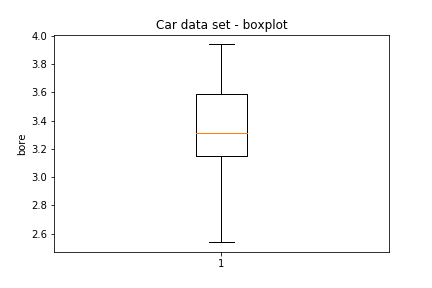
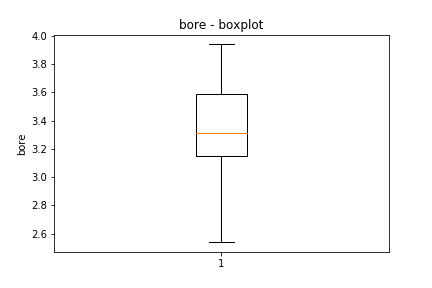
Basic Statistics

Changed region(s): [[0.3611, 0.0625, 0.662, 0.125]]

diff --git a/Scripts/PCA.py b/Scripts/PCA.py
@@ -4,15 +4,13 @@ from scipy.linalg import svd
 from scipy import stats
 import numpy as np
 
-GENERATE_PLOTS = True
-
+GENERATE_PLOTS = False
 priceArray = dOriginal["price"].values
 priceArray = np.sort(priceArray)
 bounds = priceArray[::len(priceArray)//4][1:-1]
 plt.plot(priceArray,'.r')
 for b in bounds:
     plt.plot([1,len(priceArray)],[b,b],'k--')
-#plt.show()
 
 
 # PCA by computing SVD of Y
@@ -32,8 +30,6 @@ plt.xlabel('Principal component')
 plt.ylabel('Variance explained')
 plt.legend(['Individual','Cumulative','Threshold'])
 plt.grid()
-#plt.show()
-
 
 
 temp = np.array(["low"]*len(dOriginal["price"]))
@@ -43,34 +39,40 @@ for b,bName in zip(bounds,boundNames):
 
 dOriginal["price-cat"] = temp
 
-attsToBeRemoved=["num-of-doors","num-of-cylinders","symboling"]
+
+
 scatterData=dOriginal
 scatterAttr=attNoK
-for col in attsToBeRemoved:
-    scatterData = scatterData.drop([col],axis=1)
-    scatterAttr.remove(col)
 
 for col in oneHotKDict:
     scatterData = scatterData.drop([col],axis=1)
+
+#########Standard Statistics#############    
+statMatrix=pd.DataFrame(data=np.zeros((17,3)),index=scatterAttr, columns=["Mean","Variance", "Standard Deviation"])
+for col in scatterAttr:
+     statMatrix["Mean"][col]=round(np.mean(scatterData[col].values),2)
+     statMatrix["Variance"][col]=round(np.var(scatterData[col].values),2)
+     statMatrix["Standard Deviation"][col]=round(np.std(scatterData[col].values),2)
+
+######### Removal of ordinal dicrete attributes ############
+attsToBeRemoved=["num-of-doors","num-of-cylinders","symboling"]
+for col in attsToBeRemoved:
+    scatterData = scatterData.drop([col],axis=1)
+    scatterAttr.remove(col)    
 
 #########Correlation Matrix#############
 CorData=scatterData.drop(["price-cat"],axis=1)
 CorMatrix=pd.DataFrame(data=np.corrcoef(CorData, rowvar=False),index=scatterAttr, columns=scatterAttr)
 
 ######### Scatter-Plot ############
-#dOriginal["price-cat"] = temp
-if GENERATE_PLOTS: 
-    #plt.figure()
-    
+if GENERATE_PLOTS:     
 
-   ####################################### 
     classLabels = dOriginal["price-cat"].values
     classNames = sorted(set(classLabels))
     classDict = dict(zip(classNames,range(len(classNames))))
     y = np.array([classDict[value] for value in classLabels])
     M=len(scatterAttr)
     C=len(bounds)
-    #plt.figure(figsize=(scatterData.shape))
     for m1 in range(M):
         plt.figure(figsize=(15,10))
         plt.suptitle('Correlation for: '+scatterAttr[m1])
@@ -78,17 +80,11 @@ if GENERATE_PLOTS:
             plt.subplot(M/2, 2, m2 + 1)
             for c in range(C):
                 class_mask = (y==c)
-                #print(class_mask)
-                #print(m2)
-                #print(data.values[np.array(class_mask),m2])
                 plt.plot(scatterData.values[class_mask,m2], scatterData.values[class_mask,m1], '.')
                 plt.xlabel("Correlation with "+ scatterAttr[m2]+ ": "+str(round(CorMatrix.iloc[m1][m2],2)))
                 plt.xticks([])
                 plt.yticks([])        
-                #ylim(0,X.max()*1.1)
-                #xlim(0,X.max()*1.1)
         plt.legend(classNames)
-        plt.savefig("../Figures/ScatterPlots/ScatterPlot"+scatterAttr[m1]+".png")
-        
+        plt.savefig("../Figures/ScatterPlots/ScatterPlot"+scatterAttr[m1]+".png")    
     plt.show()
     

diff --git a/Scripts/DataImport.py b/Scripts/DataImport.py
@@ -70,8 +70,8 @@ for colName in toBeKencodedColNames:
      X_num, attribute_names = categoric2numeric.categoric2numeric(data[colName])
      tempDataFrame = pd.DataFrame(data = X_num, columns=attribute_names)
      for i in range(len(attribute_names)):
-          if np.isnan(X_num).any():
-               print(attribute_names)
+#          if np.isnan(X_num).any():
+#               print(attribute_names)
           data[attribute_names[i]] = X_num[:,i]
      dictK[colName] = attribute_names
 
@@ -79,6 +79,7 @@ for colName in toBeKencodedColNames:
 for col in toBeKencodedColNames:
      data = data.drop([col],axis=1)
      attributeNames.remove(col)
+
 
 #Print data with NaNs 
 #print("point 1", data.loc[data.isna().any(axis=1),data.isna().any(axis=0)])
@@ -96,12 +97,8 @@ if GENERATE_PLOTS:
           plt.figure()
           plt.boxplot(data[col].values)
           plt.ylabel(col)
-          plt.title('Car data set - boxplot')
+          plt.title(col+' - boxplot')
           plt.savefig("../Figures/BoxPlots/"+col+".png")
-
-
-####SCATTER-PLOT###
-#Creating data for scatter plots
 
 
 
@@ -129,7 +126,6 @@ attributeNamesWithK=list(data)
 
 #Export Data with normalized and one-out-of-k-encoded data
 data.to_pickle("../Data/dNorm")
-print(data)
 with open('../Data/1_hot_K_dict.pickle', 'wb') as handle:
     pickle.dump(dictK, handle, protocol=pickle.HIGHEST_PROTOCOL)
 
